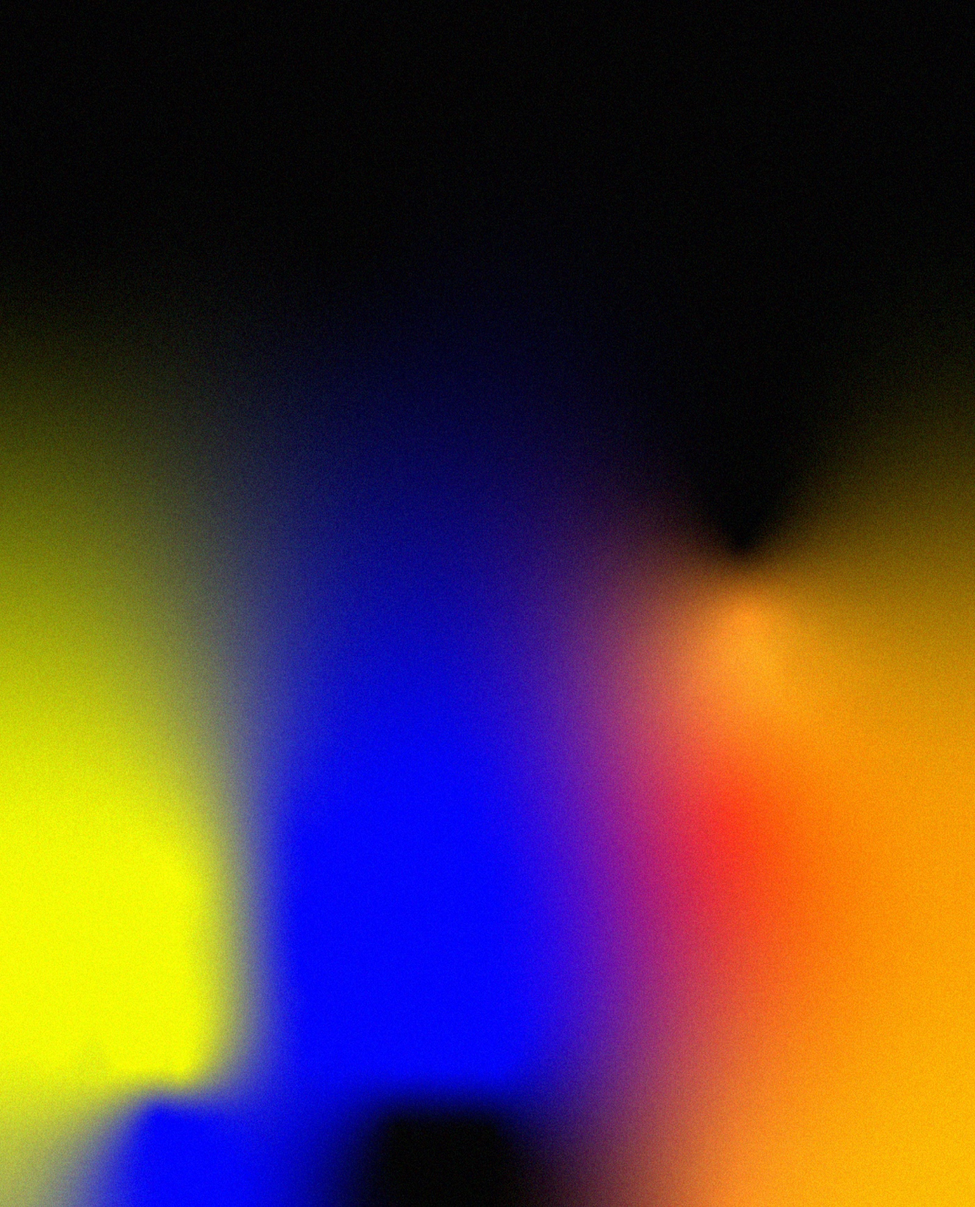
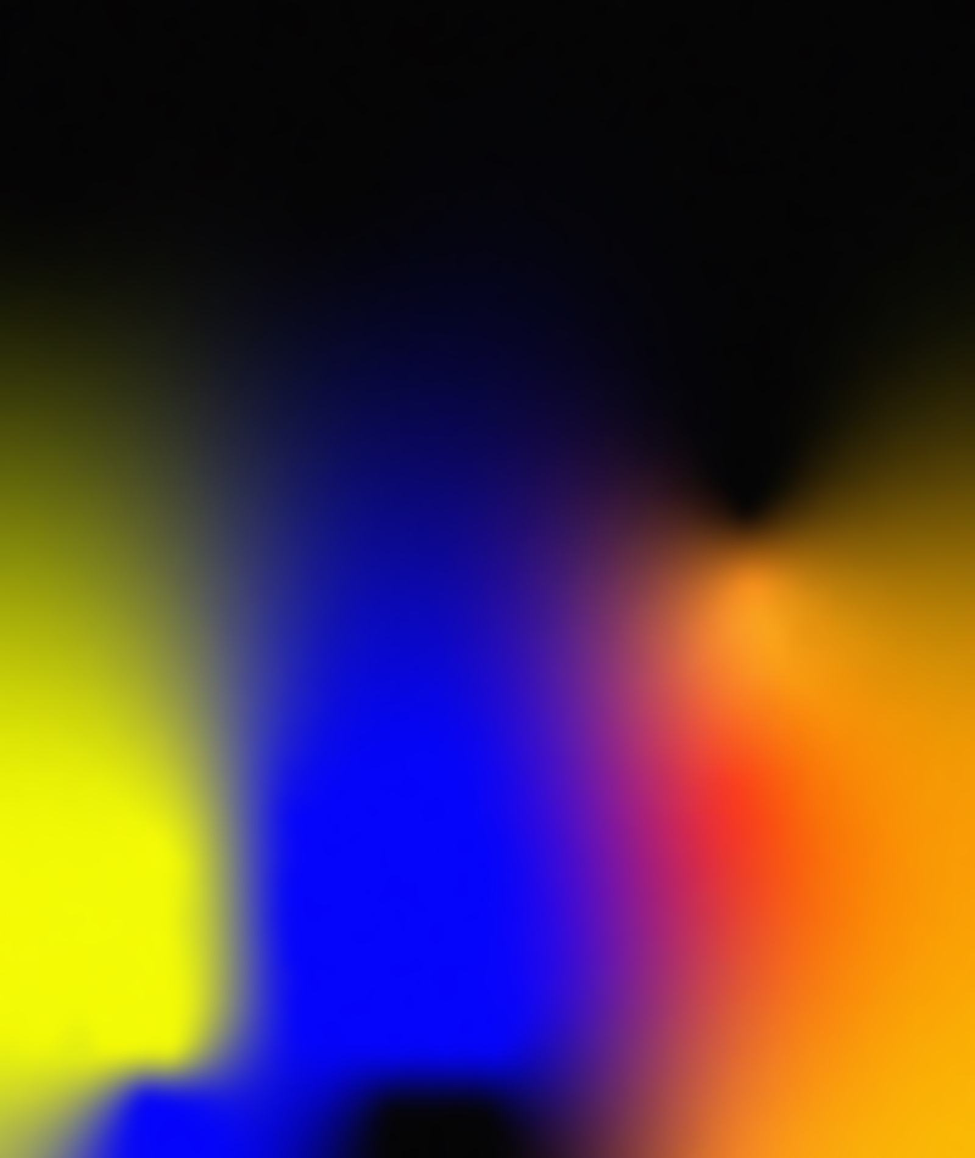
added new background images

Changed region(s): [[0.0, 0.6211, 0.3125, 0.9626], [0.3125, 0.8695, 0.6562, 0.9937], [0.7188, 0.4347, 0.8125, 0.4968]]

diff --git a/content/pages/index.md b/content/pages/index.md
@@ -3,11 +3,11 @@ title: Home
 layout: PageLayout
 colors: colors-a
 backgroundImage:
-  url: /images/bg2.jpg
+  url: /images/bg.jpg
   backgroundSize: cover
   backgroundPosition: center
   backgroundRepeat: no-repeat
-  opacity: 80
+  opacity: 75
 sections:
   - elementId: ''
     colors: colors-f
